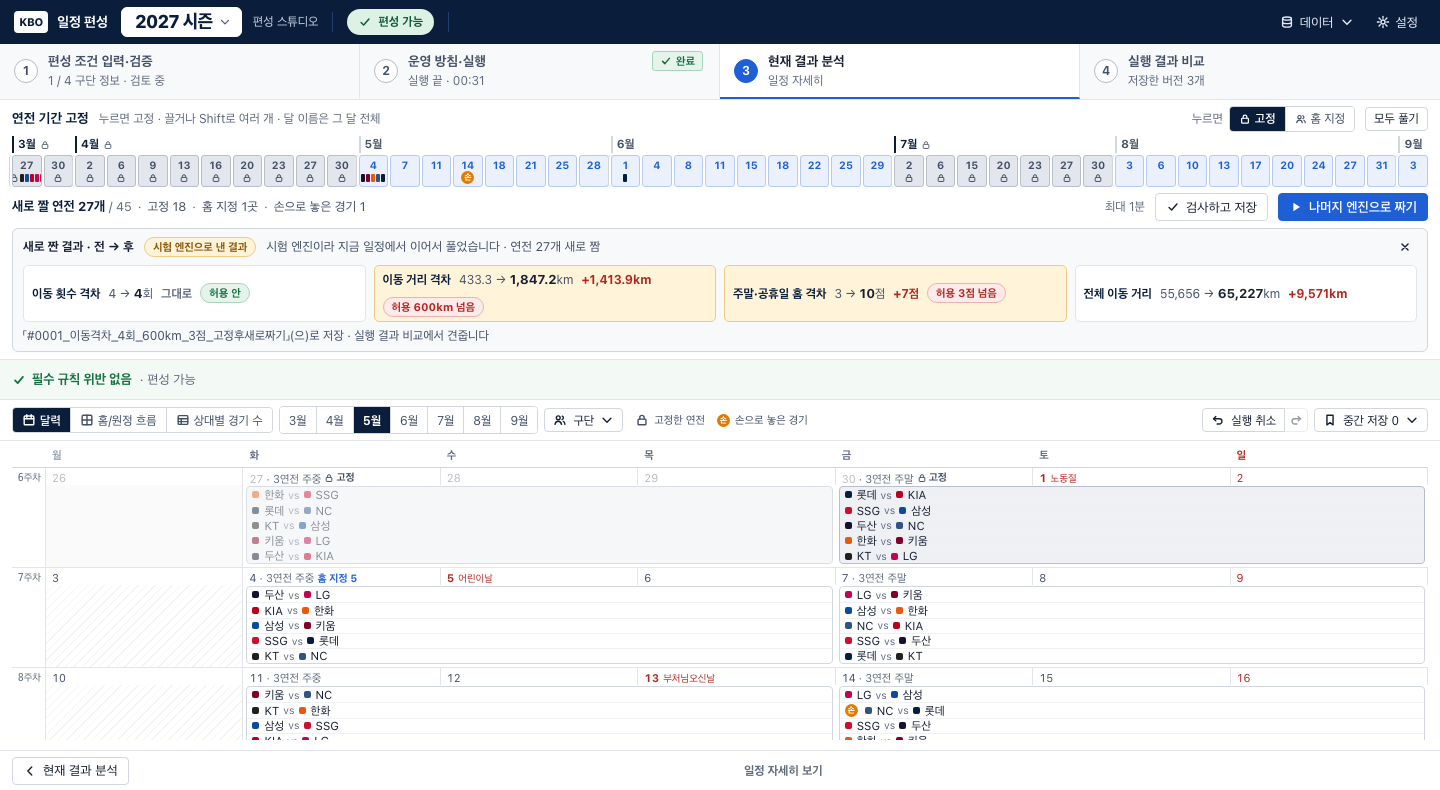
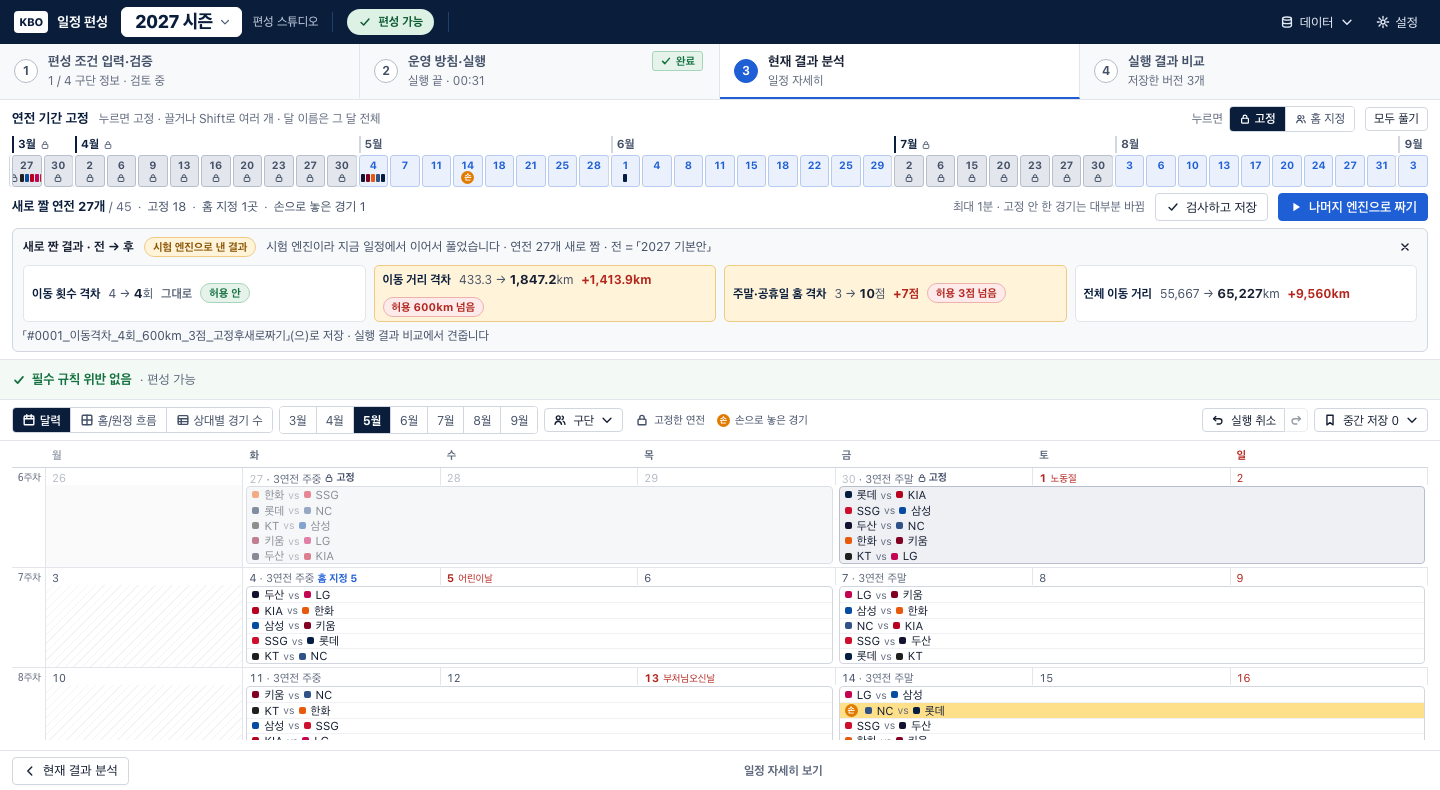
결과 고치기 시안 1 다듬기: 「전」은 고치기 전 결과를 지금 조건으로 다시 센 값 · 실행이 끝까지 못 가면 이름 꼬리표를 지움 · 저장 검사에 구단 기준 홈 지정 · 처음부터 못 짤 때 이어서 풀기 자가 점검

diff --git a/ui/app/studio/plan-edit.js b/ui/app/studio/plan-edit.js
@@ -148,6 +148,15 @@
 
   // ───────── 실행 ─────────
   const summaryOf = (ex) => ({ gaps: Object.assign({}, ex.objectiveGaps), hard: (ex.violations || []).length });
+  /** 「전」 = 고치기 전 결과(지금 결과로 저장한 버전)를 지금 편성 조건으로 다시 센 것. 손으로 놓아 생긴 중복으로 센 숫자가 아니다. 버전이 없으면 지금 일정 */
+  function baseSummary() {
+    const st = app().state, r = st.meta.result || {}, id = r.vid || r.from, v = id ? P.versions.get(YEAR, id) : null;
+    if (!v || v.matches.length !== st.matches.length) return Object.assign(summaryOf(D().ex), { name: null });
+    const p = JSON.parse(JSON.stringify(st));
+    p.matches = v.matches.map((m) => Object.assign({ pinned: false }, m));
+    p.plan = v.plan.map((x) => ({ match: x.match, calendar: x.calendar }));
+    return Object.assign(summaryOf(Score.scoreProject(p, {})), { name: v.name });
+  }
   const objective = () => app().state.settings.objective || P.DEFAULT_OBJECTIVE;
   /** 실행 전 검사: 고정한 것끼리의 진짜 위반. 있으면 막고 그 자리로 */
   function precheck() {
@@ -165,10 +174,10 @@
     if (!precheck()) { S.toast('고정한 것끼리 위반이 있어 실행하지 않았습니다. 고정을 풀거나 직접 고치세요.', 'warn', 6000); S.render(); return false; }
     E.panel = null; E.baHidden = false;
     const kind = app().engineConfig.kind, init = kind === 'REST' ? 'SCRATCH' : 'KEEP'; // 시험 엔진은 처음부터 짜기를 못 해 이어서 푼다
-    const hands = handCount(st);
+    const hands = handCount(st), before = baseSummary();
     app().store.commit('결과 고치기: 실행 전', (x) => {
       FixPlan.syncPins(x, fixed);
-      x.meta.editRun = { at: new Date().toISOString(), before: summaryOf(D().ex), fixed: fixed.length, hand: hands, free, init, engine: kind, objective: objective() };
+      x.meta.editRun = { at: new Date().toISOString(), before, fixed: fixed.length, hand: hands, free, init, engine: kind, objective: objective() };
     }, { tags: ['meta', 'pins'], undo: false });
     app().updateSolverSettings({ timeLimitSec: EDIT_SEC, unimprovedSec: Math.round(EDIT_SEC / 2), init });
     P.runOption = P.optionOf(objective());
@@ -179,17 +188,19 @@
   /** 실행 시작(첫 결과가 오면 전 결과 표시를 지운다 — 운영 방침 화면의 실행과 같음) */
   function start() {
     S.startRun();
-    if (!(S.run && app().run)) { E.pending = false; return false; }
+    if (!(S.run && app().run)) { endEdit(); return false; }
     let once = false;
     app().run.handle.on('best', () => { if (once) return; once = true; if (app().state.meta.result) app().store.commit('전 결과 표시 지우기', (x) => { delete x.meta.result; }, { tags: ['meta'], undo: false }); });
     S.go({ step: 2, sel: null, moving: null }); // 실행 중 화면(찾는 중…)에서 본다. 끝나면 여기로 돌아온다
     return true;
   }
+  /** 결과 고치기 실행이 afterRun까지 가지 못하고 끝났을 때: 다음 보통 실행의 이름·메모에 섞이지 않게 */
+  function endEdit() { E.pending = false; P.runTag = null; P.runNote = null; }
   function run() {
     if (isRunning() || (S.locked && S.locked())) return;
     const r = prepare();
     if (!r) return;
-    S.toast('연전 ' + r.free + '개를 새로 짭니다(최대 ' + EDIT_SEC / 60 + '분).', 'info', 4000);
+    S.toast('연전 ' + r.free + '개를 새로 짭니다(최대 ' + EDIT_SEC / 60 + '분). 고정하지 않은 경기는 대부분 바뀝니다.', 'info', 5000);
     start();
   }
   // 실행이 끝나면(plan-flow.js S.afterRun이 버전으로 저장): 전후를 남기고 「일정 자세히 보기」로 돌아온다
@@ -209,7 +220,7 @@
   };
   // 서버가 고정한 채로 처음부터 짜지 못하면(JobManager 「…처음부터 짤 수 없었습니다」) 이어서 풀기로 한 번 더. 그것도 안 되면 사용자 말로
   S.onRunError = function (message) {
-    if (!inYear() || !FixPlan.isPinnedStartFailure(message)) { E.pending = false; return false; }
+    if (!inYear() || !FixPlan.isPinnedStartFailure(message)) { if (E.pending) endEdit(); return false; }
     const sv = app().state.settings.solver, er = app().state.meta.editRun;
     if (sv.init === 'SCRATCH') {
       app().updateSolverSettings({ init: 'KEEP' });
@@ -219,7 +230,7 @@
       return true;
     }
     if (er && E.pending) app().store.commit('결과 고치기: 실패', (x) => { if (x.meta.editRun) x.meta.editRun.failed = true; }, { tags: ['meta'], undo: false });
-    E.pending = false;
+    endEdit();
     S.toast('고정한 연전이 많아 새로 짤 수 없습니다 · 고정을 줄여 보세요', 'bad', 7000);
     S.go({ step: 3 });
     return true;
@@ -230,12 +241,14 @@
   function save() {
     if (isRunning()) return;
     const st = app().state, ex = D().ex;
-    if (ex.violations.length) {
-      E.panel = { kind: 'save' };
-      const v = orderedViolations()[0];
+    // 홈 지정은 구단으로 지킨다(서버와 같음). 화면 채점기는 같이 쓰는 구장을 한 묶음으로 보아 「두산 홈 지정」을 LG 홈으로도 지켰다고 셀 수 있다
+    const extra = FixPlan.precheck(st, st.calendar.map((c, i) => i)).violations.filter((v) => v.code === 'H0-e' && !ex.violations.some((w) => w.code === 'H0-e' && w.slot === v.slot));
+    if (ex.violations.length || extra.length) {
+      E.panel = { kind: 'save', extra };
+      const v = ex.violations.length ? orderedViolations()[0] : extra[0];
       focusSlot(v.slot, v.matches);
-      S.ui.sel = 'v:' + S.vsig(v);
-      S.toast('필수 규칙 위반 ' + ex.violations.length + '건이 있어 저장하지 않았습니다.', 'warn', 5000);
+      if (ex.violations.length) S.ui.sel = 'v:' + S.vsig(v);
+      S.toast('필수 규칙 위반 ' + (ex.violations.length + extra.length) + '건이 있어 저장하지 않았습니다.', 'warn', 5000);
       S.render();
       return;
     }
@@ -294,7 +307,7 @@
       '<button class="btn sm" data-act="pe-clear"' + (nothing ? ' disabled' : '') + ' title="고정한 연전과 손으로 놓은 경기의 고정을 모두 풉니다(홈 지정은 그대로)">모두 풀기</button></div>' +
       '<div class="pe-grid" style="--n:' + c.slots.length + '">' + months + cells + '</div>' +
       '<div class="pe-foot"><span class="pe-sum"><b>새로 짤 연전 ' + free + '개</b><span class="muted"> / ' + c.slots.length + '</span><i>·</i>고정 ' + fixed.length + '<i>·</i>홈 지정 ' + nDes + '곳<i>·</i>손으로 놓은 경기 ' + hands + '</span>' + warn +
-      '<span class="grow"></span><span class="pe-time muted small">최대 ' + EDIT_SEC / 60 + '분</span>' +
+      '<span class="grow"></span><span class="pe-time muted small" title="고정하지 않은 경기는 대부분 바뀝니다">최대 ' + EDIT_SEC / 60 + '분 · 고정 안 한 경기는 대부분 바뀜</span>' +
       '<button class="btn" data-act="pe-save" title="엔진 없이 반드시 지킬 규칙을 모두 검사하고, 지켰으면 버전으로 저장합니다">' + icon('check') + '검사하고 저장</button>' +
       '<button class="btn primary" data-act="pe-run"' + (lvl === 'zero' ? ' disabled' : '') + ' title="고정한 연전·손으로 놓은 경기·홈 지정은 두고 나머지 연전 ' + free + '개를 엔진이 새로 짭니다">' + icon('play') + '나머지 엔진으로 짜기</button></div>' +
       panel() + '</div>';
@@ -310,10 +323,11 @@
         '<ul class="pe-list">' + p.list.slice(0, 6).map((v) => '<li><span class="pe-rule">' + esc(ruleWord[v.code] || S.ruleName(v.code)) + '</span><span class="pe-msg">' + esc(v.message) + '</span><button class="pf-link" data-act="pe-goto" data-slot="' + v.slot + '" data-ms="' + (v.matches || []).join(',') + '">그 자리로 ›</button></li>').join('') + (p.list.length > 6 ? '<li class="muted">… ' + (p.list.length - 6) + '건 더</li>' : '') + '</ul></div>';
     }
     if (p && p.kind === 'save') {
-      const list = orderedViolations();
-      if (!list.length) { E.panel = null; return ''; }
-      return '<div class="pe-panel bad"><div class="pe-ph"><b>필수 규칙 위반 ' + list.length + '건이라 저장할 수 없습니다</b><span>고친 뒤 다시 누르거나 「나머지 엔진으로 짜기」로 고칩니다</span>' + close + '</div>' +
+      const list = orderedViolations(), extra = p.extra || [];
+      if (!list.length && !extra.length) { E.panel = null; return ''; }
+      return '<div class="pe-panel bad"><div class="pe-ph"><b>필수 규칙 위반 ' + (list.length + extra.length) + '건이라 저장할 수 없습니다</b><span>고친 뒤 다시 누르거나 「나머지 엔진으로 짜기」로 고칩니다</span>' + close + '</div>' +
         '<ul class="pe-list">' + list.slice(0, 5).map((v) => '<li><span class="pe-rule">' + esc(S.ruleName(v.code)) + '</span><span class="pe-msg">' + esc(S.plain(String(v.message)).replace(/시리즈/g, '경기')) + '</span><button class="pf-link" data-act="sel-viol" data-sig="' + esc(S.vsig(v)) + '">그 자리로 ›</button></li>').join('') +
+        extra.slice(0, 3).map((v) => '<li><span class="pe-rule">홈 지정</span><span class="pe-msg">' + esc(v.message) + '</span><button class="pf-link" data-act="pe-goto" data-slot="' + v.slot + '" data-ms="' + (v.matches || []).join(',') + '">그 자리로 ›</button></li>').join('') +
         (list.length > 5 ? '<li><button class="pf-link" data-act="viol-menu">' + (list.length - 5) + '건 더 보기 ›</button></li>' : '') + '</ul></div>';
     }
     if (p && p.kind === 'saved') return '<div class="pe-panel ok"><div class="pe-ph"><b>' + icon('check') + '「' + esc(p.name) + '」(으)로 저장했습니다</b><span>반드시 지킬 규칙을 모두 지켰습니다 · 실행 결과 비교에서 다른 버전과 견줍니다</span><button class="pf-link" data-act="pf-stage" data-stage="4">실행 결과 비교 ›</button>' + close + '</div></div>';
@@ -333,7 +347,7 @@
     const how = r.init === 'KEEP' ? (r.fallback ? '처음부터 다시 짜지 못해 지금 일정에서 이어서 풀었습니다' : r.engine !== 'REST' ? '시험 엔진이라 지금 일정에서 이어서 풀었습니다' : '지금 일정에서 이어서 풀었습니다') : '고정한 것만 두고 처음부터 다시 짰습니다';
     const tail = r.left ? '<b class="bad">남은 위반 ' + r.left + '건</b> — 저장하지 않았습니다. 달력에서 직접 고치거나 고정을 줄여 다시 짜세요' : r.saved ? '「' + esc(r.saved) + '」(으)로 저장 · 실행 결과 비교에서 견줍니다' : '';
     return '<div class="pe-panel ba' + (r.left ? ' bad' : '') + '"><div class="pe-ph"><b>새로 짠 결과 · 전 → 후</b>' + (r.engine !== 'REST' ? '<span class="pf-tag est" title="편성 서버에 연결되지 않아 브라우저 시험 엔진으로 냈습니다">시험 엔진으로 낸 결과</span>' : '') +
-      '<span>' + esc(how) + ' · 연전 ' + r.free + '개 새로 짬</span>' + close + '</div>' +
+      '<span>' + esc(how) + ' · 연전 ' + r.free + '개 새로 짬' + (r.before.name ? ' · 전 = 「' + esc(r.before.name) + '」' : '') + '</span>' + close + '</div>' +
       '<div class="pe-ba">' + ob.order.map(cell).join('') + '</div>' + (tail ? '<div class="pe-ba-tail">' + tail + '</div>' : '') + '</div>';
   }
   function homeMenu(close) {

diff --git a/ui/app/studio/plan-selftest.js b/ui/app/studio/plan-selftest.js
@@ -457,6 +457,32 @@
       ok('결과 고치기: Shift로 누르면 사이의 연전까지 고정', st().meta.editFix.slots.join() === [fixAt, fixAt + 1, fixAt + 2, fixAt + 3].join());
       const conf = window.confirm; window.confirm = () => true; click('[data-act="pe-clear"]'); window.confirm = conf; flush();
       ok('결과 고치기: 모두 풀기 → 고정 없음', !st().meta.editFix.slots.length && slotPins().every((x) => !x) && !q('.pe-c.fx'));
+      // 서버가 「고정한 채로 처음부터 짤 수 없음」(JobManager.problemFor)이라 답하면 이어서 풀기로 다시 → 그것도 안 되면 사용자 말로. 시험 엔진은 이 오류를 내지 않으므로 실행 시작만 바꿔 끼워 본다
+      {
+        const PF = S.planFlow, PE = PF.edit, startRun = S.startRun, solver0 = Object.assign({}, st().settings.solver), toasts = [], toast0 = S.toast;
+        let started = 0;
+        S.startRun = () => { started++; };
+        S.toast = (m) => toasts.push(String(m));
+        const JAVA = '고정한 3연전 시리즈 2개를 그 자리에 둔 채로는 편성을 처음부터 짤 수 없었습니다. 고정을 몇 개 풀고 다시 시도해 주세요.';
+        const arm = (init) => { S.app.updateSolverSettings({ init }); PE.pending = true; PF.runTag = '고정후새로짜기'; PF.runNote = '메모'; S.app.store.commit('점검: 실행 전', (x) => { x.meta.editRun = { before: { gaps: {}, hard: 0 }, init }; }, { tags: ['meta'], undo: false }); };
+        try {
+          arm('SCRATCH');
+          const r1 = S.onRunError(JAVA);
+          await wait(30);
+          ok('결과 고치기: 처음부터 못 짜면 이어서 풀기로 다시 보냄', r1 === true && st().settings.solver.init === 'KEEP' && started === 1 && st().meta.editRun.fallback === true && toasts.some((t) => /이어서 고칩니다/.test(t)));
+          arm('KEEP');
+          const r2 = S.onRunError(JAVA);
+          ok('결과 고치기: 이어서 풀기도 못 하면 「고정한 연전이 많아…」 · 이름 꼬리표 지움', r2 === true && st().meta.editRun.failed === true && toasts.some((t) => /고정한 연전이 많아 새로 짤 수 없습니다/.test(t)) && !toasts.some((t) => /시리즈/.test(t)) && PF.runTag == null && !PE.pending);
+          arm('SCRATCH');
+          const r3 = S.onRunError('이벤트 스트림 연결이 끊어졌습니다.');
+          ok('결과 고치기: 다른 오류는 그대로 넘기고 이름 꼬리표 지움', r3 === false && PF.runTag == null && PF.runNote == null && !PE.pending && started === 1);
+        } finally {
+          S.startRun = startRun; S.toast = toast0;
+          S.app.updateSolverSettings(solver0);
+          S.app.store.commit('점검: 정리', (x) => { delete x.meta.editRun; }, { tags: ['meta'], undo: false });
+        }
+        S.go({ step: 3, view: 'calendar', month: 4 }); flush();
+      }
       S.go({ step: 4, qv: 'sched', team: st().teams[0].name }); flush();
       ok('구단별 일정표: 제목이 그 해', /2027 정규시즌/.test(page()) && !/2025 정규시즌/.test(page()));
       // 구단별 보기: 한 구단 → 둘째 구단 고르기 → 두 구단 비교(team-view.js)
